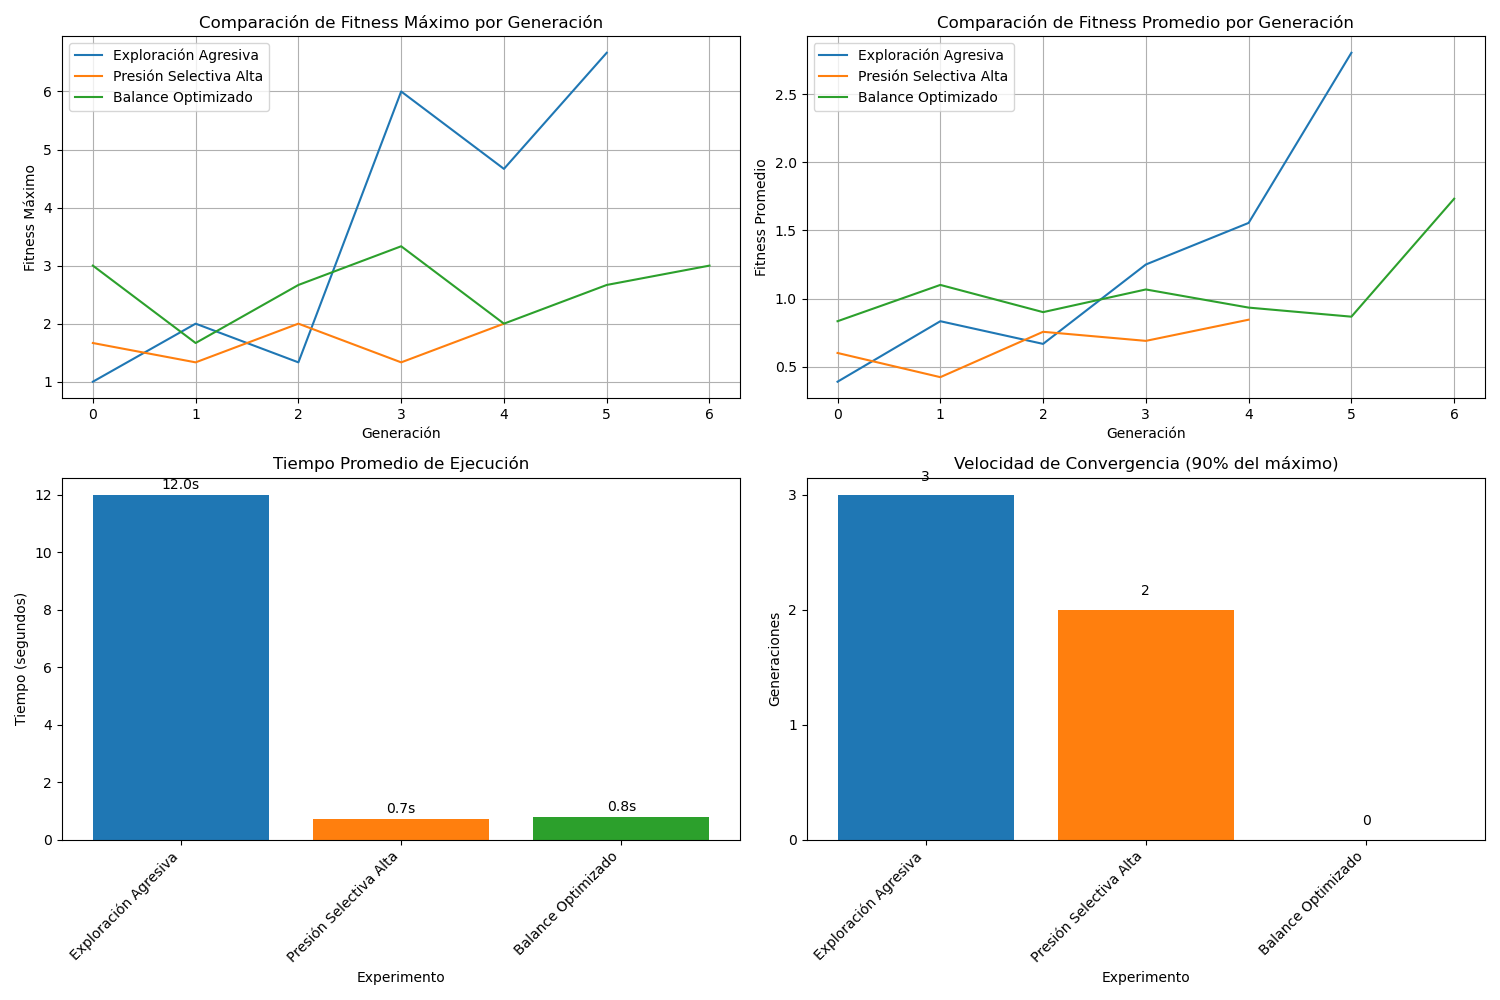
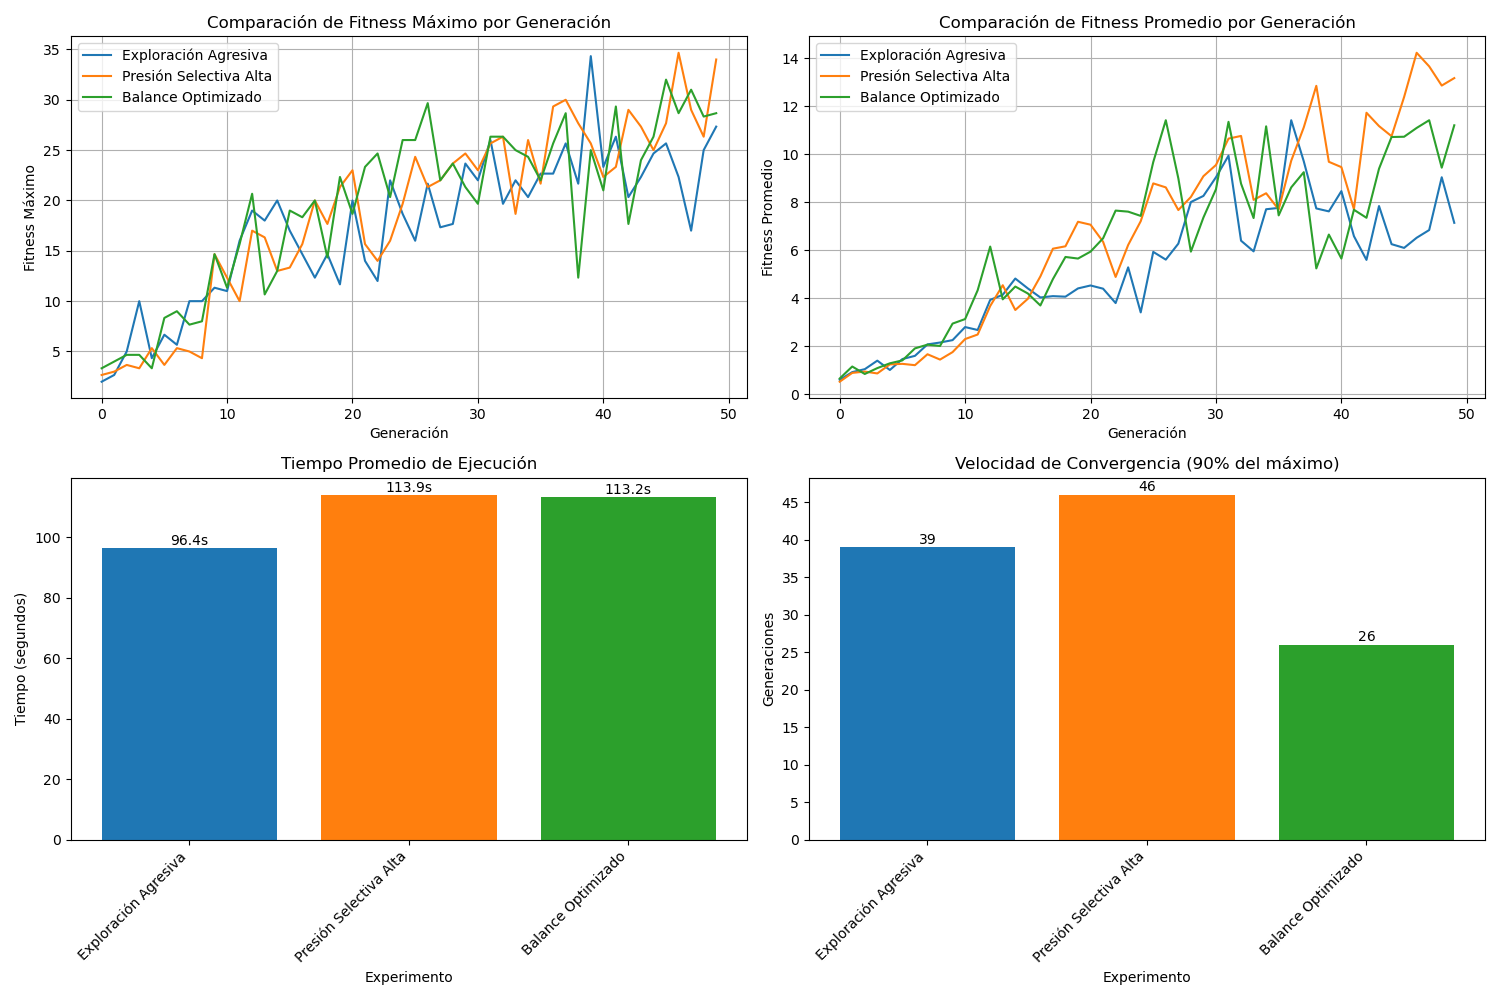
Actualización en el fitness y nuevas metricas de recompensas

diff --git a/snakepy.py b/snakepy.py
@@ -551,235 +551,202 @@ class GeneticAlgorithm:
         self.population = [DecisionTable() for _ in range(self.population_size)]
     
     def fitness(self, agent, num_games=5, show_game=False, silent=False):
-        """Evalúa el fitness de un agente sobre exactamente 3 juegos"""
-        import os  # Asegurar que 'os' esté disponible en esta función
-        
+
         total_score = 0
         total_steps = 0
-        movement_efficiency = 0  # Eficiencia de movimiento
-        unique_positions = 0     # Posiciones únicas visitadas
-        foods_reached = 0        # Comidas alcanzadas (total acumulado)
-        avg_steps_per_food = []  # Pasos promedio para alcanzar comida
-        
-        # IMPORTANTE: Siempre jugar exactamente 3 juegos, independientemente del parámetro num_games
+        movement_efficiency = 0
+        unique_positions = 0
+        foods_reached = 0
+        avg_steps_per_food = []
+
         exact_games = 3
         if not silent:
             print(f"\nIniciando evaluación de agente en {exact_games} juegos...")
-        
-        # Control de visualización para procesos en paralelo
-        # Deshabilitar temporalmente la visualización de Pygame si estamos en modo silencioso (para paralelización)
+
         os_environ_copy = None
         if silent and 'SDL_VIDEODRIVER' not in os.environ:
             os_environ_copy = os.environ.copy()
-            os.environ['SDL_VIDEODRIVER'] = 'dummy'  # Usar driver nulo para Pygame
-            
-        # Jugar exactamente 3 juegos para evaluar al agente
+            os.environ['SDL_VIDEODRIVER'] = 'dummy'
+
         for game_num in range(exact_games):
-            # Usar diferentes semillas para evaluar con más robustez
             random.seed(game_num + int(time.time()) % 1000)
-            
-            # Crear un nuevo juego para cada evaluación
-            # Desactivamos los mensajes de depuración durante la evaluación
-            # para no saturar la consola
+
             original_print = print
-            if game_num > 0 or silent:  # Silenciar todos los mensajes en modo silencioso
-                def silent_print(*args, **kwargs):
-                    pass
+            if game_num > 0 or silent:
+                def silent_print(*args, **kwargs): pass
                 builtins.print = silent_print
-            
-            # Crear juego con visualización desactivada si estamos en modo silencioso
+
             game = SnakeGame(ai_control=True, training_mode=False, headless=silent)
             done = False
             score = 0
             steps_since_last_food = 0
-            
-            # Máximo de pasos para evitar juegos infinitos durante evaluación
-            max_steps = 400  # Reducido para evaluación más rápida
+            max_steps = 400
             steps_played = 0
             prev_distance = None
-            positions_set = set()  # Conjunto para rastrear posiciones únicas
-            direct_path_bonus = 0  # Bonus por tomar camino directo a la comida
-            
-            # Nuevas variables para métricas avanzadas
-            attempts_toward_food = 0       # Intentos de moverse hacia la comida
-            successful_food_approaches = 0  # Acercamientos exitosos a la comida
-            wall_avoidance_count = 0       # Veces que evitó una pared
-            near_death_avoidance = 0       # Veces que evitó una muerte cercana
-            consecutive_approach_food = 0  # Contador de aproximación consistente a la comida
-            food_eaten_in_game = 0         # Comida comida en este juego específico
-            
-            # Rastreo de patrones de movimiento
-            last_positions = []            # Últimas posiciones para detectar ciclos
-            repeated_cycles = 0            # Contador de ciclos repetidos
-            max_cycle_history = 20         # Tamaño máximo del historial de posiciones
-            
-            # Distancia inicial a la comida
+            positions_set = set()
+            direct_path_bonus = 0
+
+            attempts_toward_food = 0
+            successful_food_approaches = 0
+            wall_avoidance_count = 0
+            near_death_avoidance = 0
+            consecutive_approach_food = 0
+            food_eaten_in_game = 0
+
+            last_positions = []
+            repeated_cycles = 0
+            max_cycle_history = 20
+
             initial_food_distance = abs(game.head.x - game.food.x) + abs(game.head.y - game.food.y)
-            
+
+            # Nuevas métricas
+            idle_moves = 0
+            last_direction = None
+            wrong_moves_to_food = 0
+
             print(f"Jugando partida {game_num + 1} de {exact_games}...")
-            
-            # Jugar hasta que termine
+
             while not done and steps_played < max_steps:
                 state = game.get_state()
                 action = agent.get_action(state)
                 prev_score = score
-                
-                # Guardar posición antes de moverse
                 prev_pos = (game.head.x, game.head.y)
                 prev_snake_length = len(game.snake)
-                
-                # Verificar si va a evitar una pared o colisión inminente
+
                 danger_ahead = state[0]
                 danger_right = state[1]
                 danger_left = state[2]
-                
-                # Detectar si se va a evitar una pared
-                if danger_ahead and action != 0:  # No va hacia adelante cuando hay peligro
+
+                if danger_ahead and action != 0:
                     wall_avoidance_count += 1
                     near_death_avoidance += 1
-                
+
                 done, score, _ = game.play_step(action)
                 steps_played += 1
                 steps_since_last_food += 1
-                
-                # Rastrear posiciones únicas visitadas
+
+                # Dirección actual
+                direction = game.direction
+                if direction == last_direction:
+                    idle_moves += 1
+                else:
+                    idle_moves = 0
+                last_direction = direction
+
                 pos = (game.head.x, game.head.y)
                 positions_set.add(pos)
-                
-                # Actualizar historial de posiciones para detección de ciclos
+
                 last_positions.append(pos)
                 if len(last_positions) > max_cycle_history:
                     last_positions.pop(0)
-                
-                # Detectar ciclos repetitivos (patrones de 2, 3 o 4 movimientos)
+
                 if len(last_positions) >= 8:
                     for cycle_len in [2, 3, 4]:
                         if len(last_positions) >= cycle_len * 2:
                             recent = last_positions[-cycle_len:]
-                            previous = last_positions[-2*cycle_len:-cycle_len]
+                            previous = last_positions[-2 * cycle_len:-cycle_len]
                             if recent == previous:
                                 repeated_cycles += 1
                                 break
-                
-                # Calcular distancia a la comida (Manhattan)
+
                 curr_distance = abs(game.head.x - game.food.x) + abs(game.head.y - game.food.y)
-                
-                # Inicializar distancia previa si es la primera iteración
+
                 if prev_distance is None:
                     prev_distance = curr_distance
-                
-                # Analizar si se acerca a la comida
+
                 if curr_distance < prev_distance:
                     movement_efficiency += 1
-                    direct_path_bonus += 0.3  # Aumentado para dar más valor a moverse hacia la comida
+                    direct_path_bonus += 0.3
                     successful_food_approaches += 1
                     consecutive_approach_food += 1
                 else:
-                    # Penalización por alejarse de la comida
                     direct_path_bonus -= 0.1
                     consecutive_approach_food = 0
-                
-                # Bonus exponencial por aproximación consistente
+                    wrong_moves_to_food += 1
+
                 if consecutive_approach_food >= 3:
                     direct_path_bonus += consecutive_approach_food * 0.5
-                
+
                 prev_distance = curr_distance
-                
-                # Verificar si encontró comida
+
                 if score > prev_score:
                     foods_reached += 1
                     food_eaten_in_game += 1
-                    # Registrar cuántos pasos tomó llegar a esta comida
                     avg_steps_per_food.append(steps_since_last_food)
                     steps_since_last_food = 0
-                    
-                    # Bonus por comer comida (mayor bonus mientras más crece)
-                    food_bonus_multiplier = 1 + (food_eaten_in_game * 0.5)  # Bonificación creciente
+
+                    food_bonus_multiplier = 1 + (food_eaten_in_game * 0.5)
                     direct_path_bonus += 10.0 * food_bonus_multiplier
-                    
-                    # Reiniciar distancia para próxima comida
+
                     prev_distance = None
-                
-                # No mostrar todos los juegos (solo para visualizar el mejor)
+
                 if not show_game:
                     pygame.display.update()
-            
-            # Guardar distancia final a la comida al terminar
-            final_food_distance = curr_distance if 'curr_distance' in locals() else initial_food_distance
-            
-            # Terminar si se alcanzó el límite de pasos
-            if steps_played >= max_steps and not done:
-                done = True
-                
+
             total_score += score
             total_steps += game.steps
             unique_positions += len(positions_set)
-            
-            # Restaurar la función print original al final de cada juego
+
+            total_wrong_moves = wrong_moves_to_food
+            total_idle_moves = idle_moves
+
             if game_num > 0 or silent:
                 builtins.print = original_print
-                
-            # Mostrar resultados de este juego específico
+
             if not silent:
                 print(f"\nJuego {game_num + 1} de {exact_games} completado")
                 print(f"  - Puntuación: {score}")
                 print(f"  - Pasos totales: {steps_played}")
                 print(f"  - Comida encontrada en este juego: {food_eaten_in_game}")
                 print(f"  - Posiciones únicas visitadas: {len(positions_set)}")
-                print(f"  - Eficiencia de ruta: {(food_eaten_in_game / steps_played * 100):.2f}% (comidas/pasos)")
-        
-        # COMPONENTE 1: OBJETIVOS PRIMARIOS
-        # Puntos por comida (objetivo principal)
-        food_points = total_score * 70  # Aumentado a 70 para dar aún más prioridad a comer comida
-        
-        # Puntos por supervivencia (escalados según la longitud)
-        survival_points = total_steps * 0.3  # Reducido para no premiar tanto la supervivencia sin comer
-        
-        # COMPONENTE 2: EFICIENCIA Y COMPORTAMIENTO INTELIGENTE
-        # Eficiencia en conseguir comida
+                print(f"  - Eficiencia de ruta: {(food_eaten_in_game / steps_played * 100):.2f}%")
+
+        # COMPONENTES DE FITNESS
+
+        # Recompensa progresiva por comida
+        food_points = sum([70 + i * 10 for i in range(total_score)])
+
+        survival_points = total_steps * 0.3
+
         route_efficiency = 0
         if avg_steps_per_food:
-            # Invertimos la relación: menos pasos = mayor eficiencia
-            route_efficiency = 120 / (sum(avg_steps_per_food) / len(avg_steps_per_food) + 1)
-        
-        # Bonus por aproximación a la comida
-        food_approach_bonus = successful_food_approaches * 3  # Aumentado para premiar más el acercarse a la comida
-        
-        # COMPONENTE 3: CRECIMIENTO Y EXPLORACIÓN
-        # Bonus por exploración (evitar quedarse en áreas pequeñas)
-        exploration_bonus = unique_positions * 0.5  # Reducido ligeramente
-        
-        # Bonus por evitar paredes y colisiones
+            route_efficiency = 200 / ((sum(avg_steps_per_food) / len(avg_steps_per_food)) ** 1.2 + 1)
+
+        food_approach_bonus = successful_food_approaches * 3
+        exploration_bonus = unique_positions * 0.5
         avoidance_bonus = wall_avoidance_count * 0.5 + near_death_avoidance * 2
-        
-        # COMPONENTE 4: PENALIZACIONES
-        # Penalización por muerte temprana
+
         early_death_penalty = 0
-        if total_score == 0:  # No comió nada
-            early_death_penalty = 300  # Aumentada para penalizar más fuertemente no comer nada
-        elif total_steps < 30:  # Muerte muy temprana
+        if total_score == 0:
+            early_death_penalty = 300
+        elif total_steps < 30:
             early_death_penalty = 200
-        
-        # Penalización por movimientos repetitivos
-        repetition_penalty = repeated_cycles * 8  # Aumentado para penalizar más los ciclos
-        
-        # CÁLCULO FINAL CON PONDERACIONES OPTIMIZADAS
+
+        # Penalizaciones mejoradas
+        idle_penalty = (total_idle_moves // 10) * 5
+        wrong_direction_penalty = total_wrong_moves * 0.5
+        cycle_ratio = repeated_cycles / max(1, total_steps)
+        cycle_penalty = 0
+        if cycle_ratio > 0.1:
+            cycle_penalty = cycle_ratio * 500
+
+        repetition_penalty = repeated_cycles * 8 + cycle_penalty + idle_penalty + wrong_direction_penalty
+
         fitness = (
-            food_points +                  # Prioridad máxima a comer comida
-            survival_points +              # Valor bajo a la supervivencia
-            route_efficiency * 4.0 +       # Máxima importancia a la eficiencia
-            food_approach_bonus +          # Premiar acercarse a la comida
-            direct_path_bonus * 2.5 +      # Premiar rutas directas
-            exploration_bonus +            # Valor bajo a la exploración general
-            avoidance_bonus +              # Premiar evitar obstáculos
-            (movement_efficiency * 1.0) -  # Valor bajo al movimiento general
-            early_death_penalty -          # Fuerte penalización por muerte temprana
-            repetition_penalty             # Alta penalización por ciclos repetitivos
+            food_points +
+            survival_points +
+            route_efficiency * 4.0 +
+            food_approach_bonus +
+            direct_path_bonus * 2.5 +
+            exploration_bonus +
+            avoidance_bonus +
+            (movement_efficiency * 1.0) -
+            early_death_penalty -
+            repetition_penalty
         )
-        
-        # Resumen de la evaluación
+
         if not silent:
-            print("\n" + "="*50)
+            print("\n" + "=" * 50)
             print(f"RESUMEN DE EVALUACIÓN DEL AGENTE")
             print(f"  • Total de comida encontrada: {total_score}")
             print(f"  • Total de pasos realizados: {total_steps}")
@@ -788,16 +755,14 @@ class GeneticAlgorithm:
                 print(f"  • Promedio de pasos por comida: {sum(avg_steps_per_food) / len(avg_steps_per_food):.2f}")
             print(f"  • Posiciones únicas visitadas: {unique_positions}")
             print(f"  • Fitness calculado: {fitness:.2f}")
-            print("="*50)
-        
-        # Restaurar variables de entorno si las modificamos
+            print("=" * 50)
+
         if os_environ_copy is not None:
             os.environ.clear()
             os.environ.update(os_environ_copy)
-            
-        # Garantizar un valor mínimo positivo para mantener diversidad genética
+
         fitness = max(1.0, fitness / exact_games)
-        
+
         return fitness
     
     def selection(self, fitnesses):

diff --git a/snake_experiments.py b/snake_experiments.py
@@ -486,24 +486,24 @@ def run_experiments():
     experiment_configs = [
         {
             'name': 'Exploración Agresiva',
-            'pop_size': 12,
-            'generations': 6,
+            'pop_size': 30,
+            'generations': 50,
             'mutation_rate': 0.35,     # Tasa de mutación más alta para explorar más
             'elitism': 1,              # Elitismo mínimo para evitar convergencia prematura
             'base_seed': int(time.time()) % 10000   # Semilla basada en el tiempo actual
         },
         {
             'name': 'Presión Selectiva Alta',
-            'pop_size': 15,
-            'generations': 5,
+            'pop_size': 30,
+            'generations': 50,
             'mutation_rate': 0.25,
             'elitism': 1,
             'base_seed': (int(time.time()) % 10000) + 5000  # Otra semilla única
         },
         {
             'name': 'Balance Optimizado',
-            'pop_size': 10,
-            'generations': 7,
+            'pop_size': 30,
+            'generations': 50,
             'mutation_rate': 0.3,      # Buena tasa de mutación para balance exploración-explotación
             'elitism': 1,
             'base_seed': (int(time.time()) % 10000) + 10000  # Tercera semilla única
